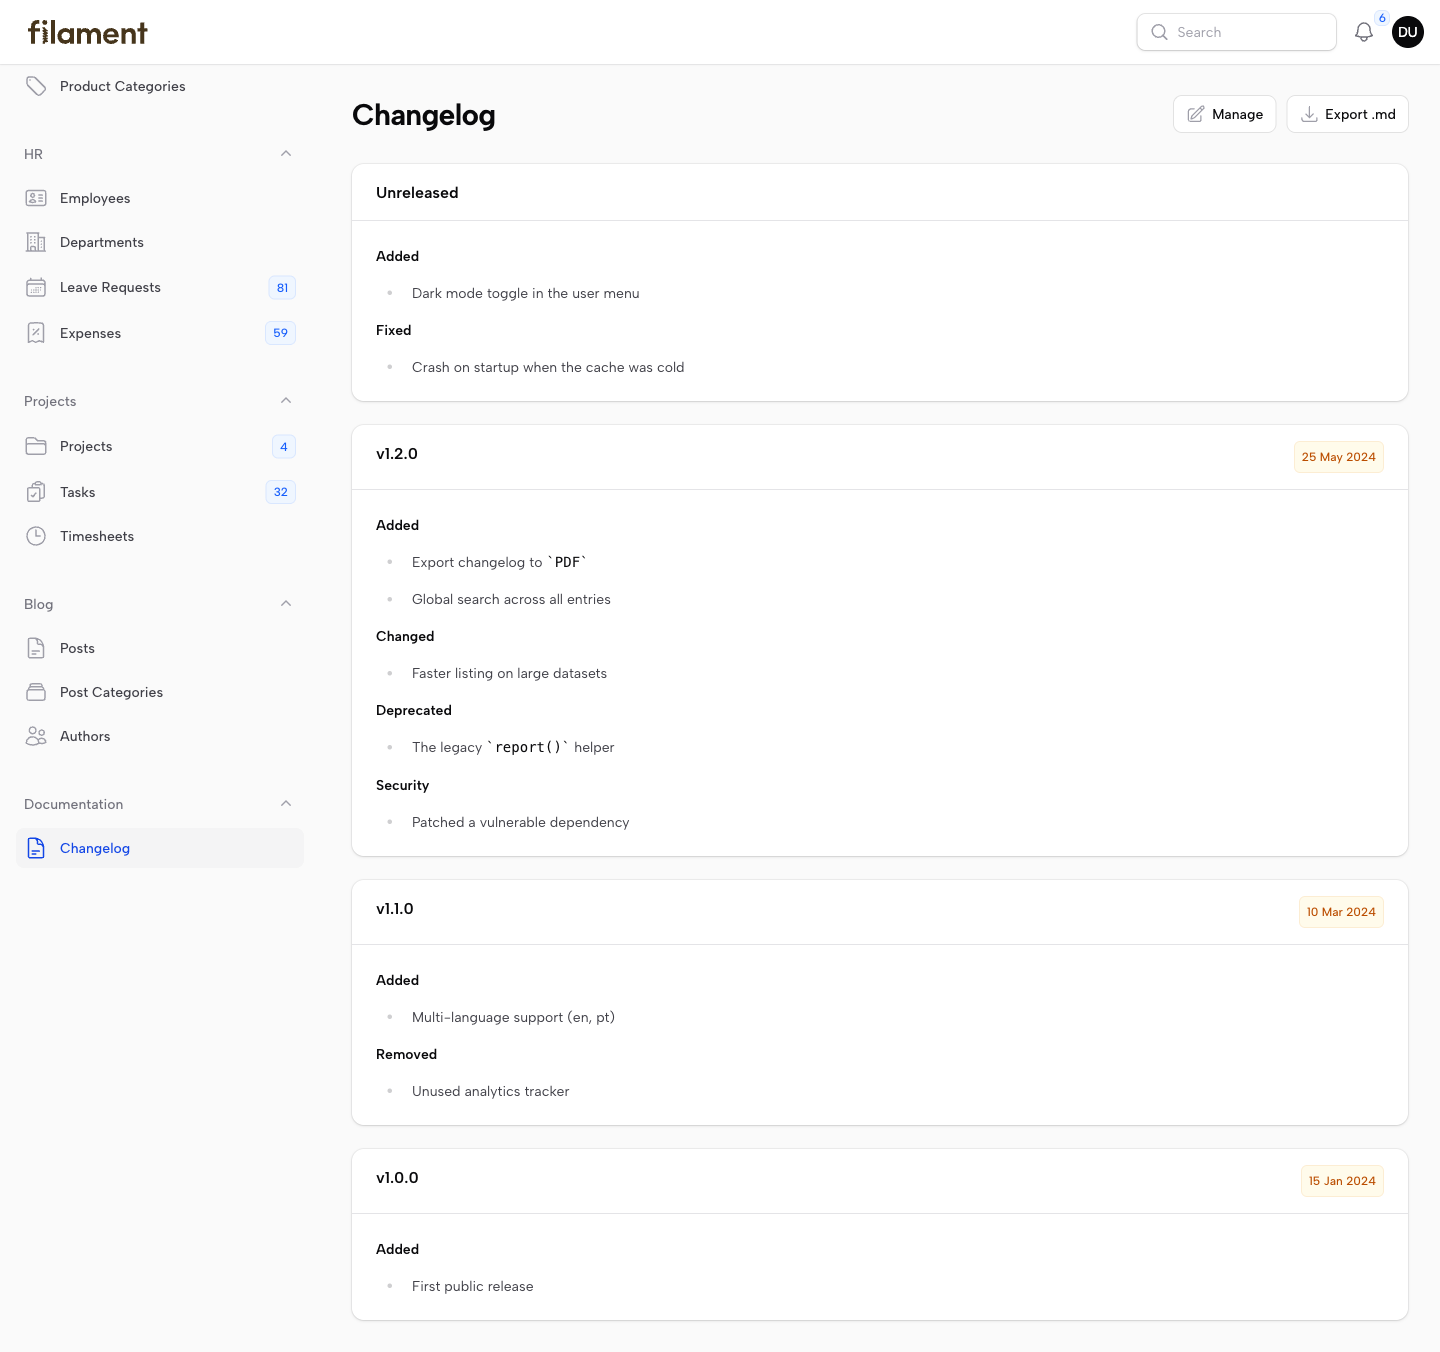
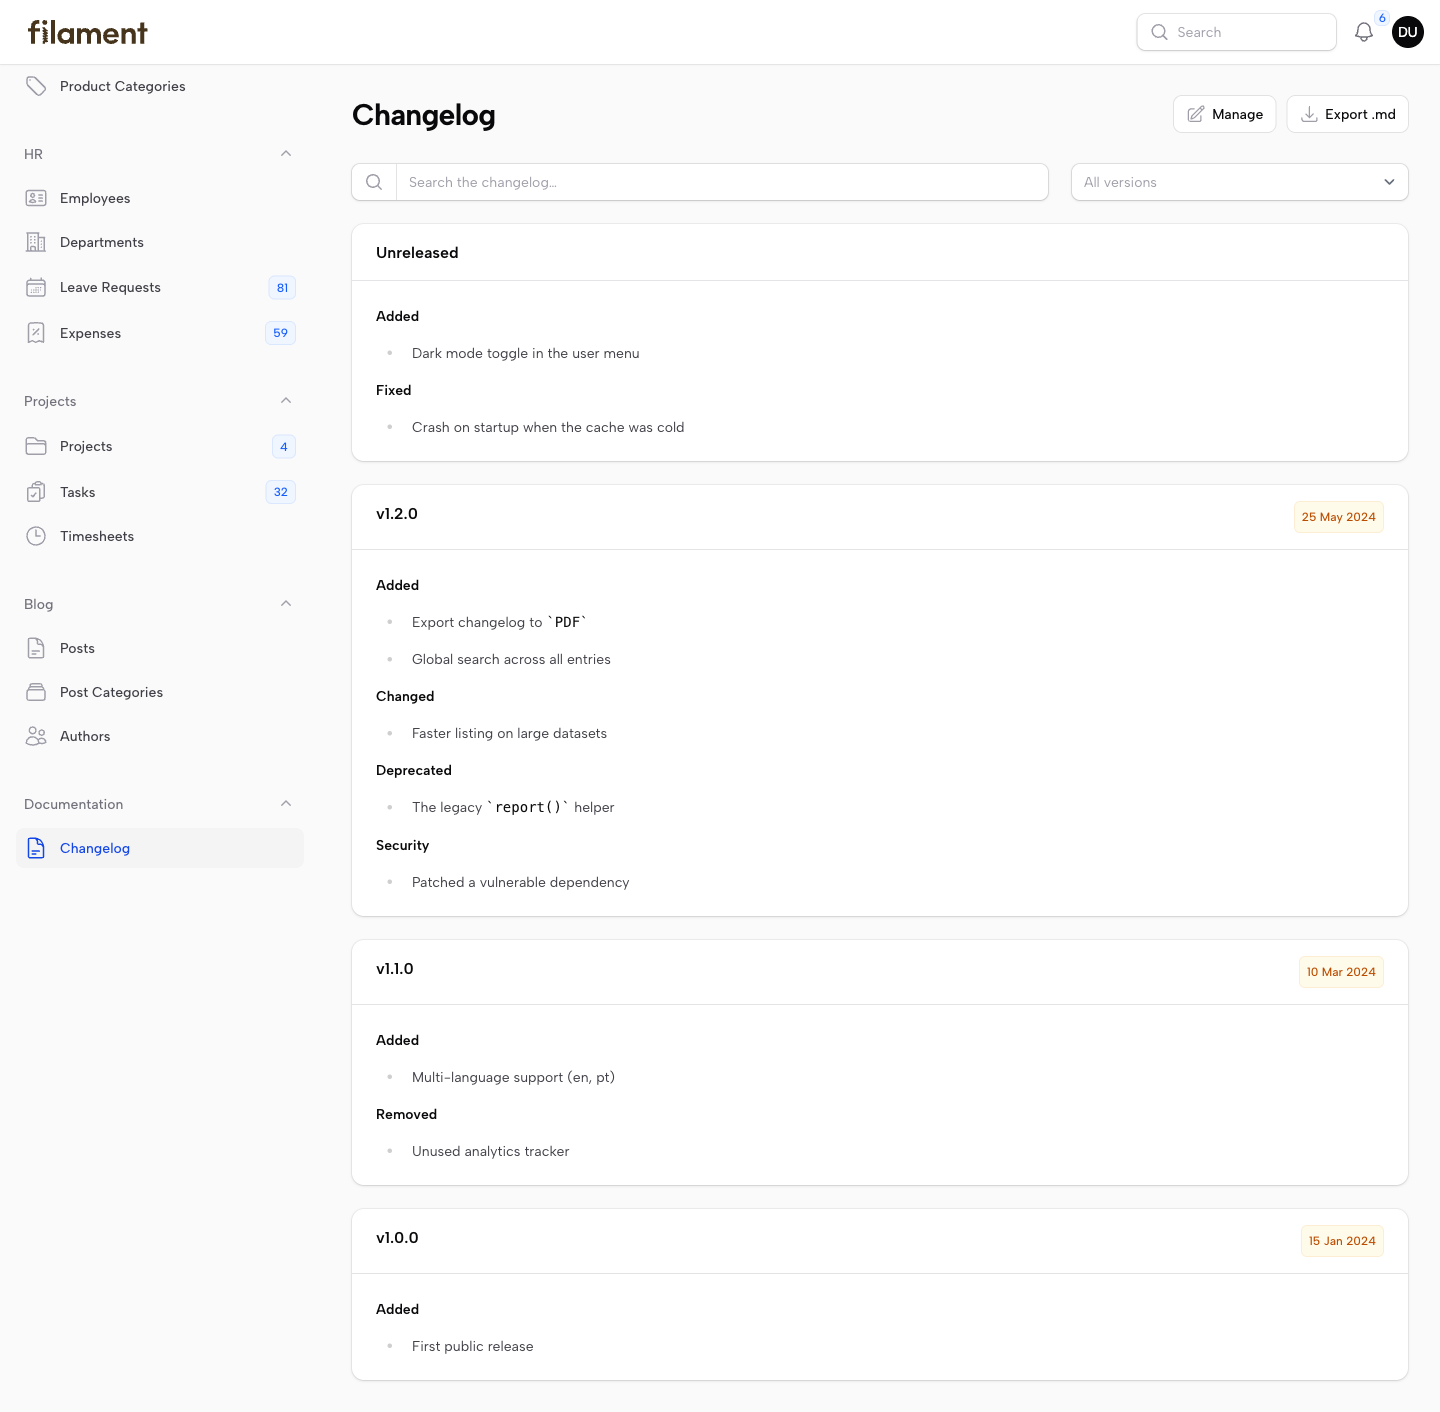
Add search, version filter and infinite scroll to the reader
The reader page now has a live search box, a searchable version filter and
infinite scroll (version cards load in batches). Built with the schema API,
no custom Blade. Also fix a 500 when filtering by version: VersionGrouper
now returns a plain collection so only() works instead of calling getKey()
on an Eloquent collection. Adds translations (en, pt_PT, pt_BR) and a
regression test.

diff --git a/src/Pages/ChangelogPage.php b/src/Pages/ChangelogPage.php
@@ -12,11 +12,15 @@ use Filament\Changelog\Support\ChangelogSource;
 use Filament\Changelog\Support\ChangelogWriter;
 use Filament\Changelog\Support\VersionGrouper;
 use Filament\Facades\Filament;
+use Filament\Forms\Components\Select;
+use Filament\Forms\Components\TextInput;
 use Filament\Infolists\Components\TextEntry;
 use Filament\Pages\Page;
 use Filament\Panel;
+use Filament\Schemas\Components\Grid;
 use Filament\Schemas\Components\Section;
 use Filament\Schemas\Components\Text;
+use Filament\Schemas\Components\Utilities\Get;
 use Filament\Schemas\Schema;
 use Filament\Support\Enums\FontWeight;
 use Filament\Support\Icons\Heroicon;
@@ -27,6 +31,31 @@ use UnitEnum;
 
 class ChangelogPage extends Page
 {
+    /**
+     * Number of version cards revealed per infinite-scroll step.
+     */
+    protected const PER_PAGE = 8;
+
+    /**
+     * Toolbar state (search term + selected version), bound via `statePath`.
+     *
+     * @var array<string, mixed>
+     */
+    public ?array $data = [];
+
+    /**
+     * How many version cards are currently visible (grows on scroll).
+     */
+    public int $limit = self::PER_PAGE;
+
+    public function mount(): void
+    {
+        $this->data = [
+            'search' => '',
+            'version' => null,
+        ];
+    }
+
     protected static function plugin(): ChangelogPlugin
     {
         try {
@@ -107,6 +136,22 @@ class ChangelogPage extends Page
         return config('changelog.navigation.page.slug', 'changelog');
     }
 
+    /**
+     * Reveal the next batch of version cards (called by the scroll sentinel).
+     */
+    public function loadMore(): void
+    {
+        $this->limit += static::PER_PAGE;
+    }
+
+    /**
+     * Reset paging whenever a filter changes so results start from the top.
+     */
+    public function resetLimit(): void
+    {
+        $this->limit = static::PER_PAGE;
+    }
+
     protected function getHeaderActions(): array
     {
         return [
@@ -143,25 +188,139 @@ class ChangelogPage extends Page
 
         if ($entries->isEmpty()) {
             return $schema->components([
-                Section::make()
-                    ->schema([
-                        Text::make(__('changelog::changelog.reader.empty'))
-                            ->color('gray'),
-                    ]),
+                Section::make()->schema([
+                    Text::make(__('changelog::changelog.reader.empty'))->color('gray'),
+                ]),
             ]);
         }
 
+        return $schema
+            ->statePath('data')
+            ->components([
+                $this->toolbar($entries),
+                Grid::make(1)
+                    ->key('changelog-list')
+                    ->schema(fn (Get $get): array => $this->list(
+                        (string) ($get('search') ?? ''),
+                        $get('version'),
+                    )),
+            ]);
+    }
+
+    /**
+     * Search box + version filter, both live so the list reacts instantly.
+     */
+    protected function toolbar(Collection $entries): Grid
+    {
+        return Grid::make(['default' => 1, 'sm' => 3])
+            ->schema([
+                TextInput::make('search')
+                    ->hiddenLabel()
+                    ->placeholder(__('changelog::changelog.reader.search_placeholder'))
+                    ->prefixIcon(Heroicon::MagnifyingGlass)
+                    ->live(debounce: 350)
+                    ->afterStateUpdated(fn () => $this->resetLimit())
+                    ->columnSpan(['default' => 1, 'sm' => 2]),
+
+                Select::make('version')
+                    ->hiddenLabel()
+                    ->placeholder(__('changelog::changelog.reader.all_versions'))
+                    ->options($this->versionOptions($entries))
+                    ->native(false)
+                    ->searchable()
+                    ->live()
+                    ->afterStateUpdated(fn () => $this->resetLimit())
+                    ->columnSpan(1),
+            ]);
+    }
+
+    /**
+     * @return array<string, string>
+     */
+    protected function versionOptions(Collection $entries): array
+    {
+        return (new VersionGrouper)->group($entries)
+            ->keys()
+            ->mapWithKeys(fn (string $version): array => [$version => $this->versionHeading($version)])
+            ->all();
+    }
+
+    /**
+     * Build the (filtered, paginated) list of version cards, appending an
+     * intersection sentinel when more cards remain to be revealed.
+     *
+     * @return array<int, \Filament\Schemas\Components\Component>
+     */
+    protected function list(string $search, ?string $version): array
+    {
         $grouper = new VersionGrouper;
 
-        $sections = $grouper->group($entries)
-            ->map(fn (Collection $group, string $version): Section => $this->versionSection($version, $group, $grouper))
+        $entries = $this->filter(ChangelogSource::entries(), $search);
+
+        $groups = $grouper->group($entries);
+
+        if ($version !== null && $version !== '') {
+            $groups = $groups->only([$version]);
+        }
+
+        if ($groups->isEmpty()) {
+            return [
+                Section::make()->schema([
+                    Text::make(__('changelog::changelog.reader.no_results'))->color('gray'),
+                ]),
+            ];
+        }
+
+        $total = $groups->count();
+
+        $sections = $groups
+            ->take($this->limit)
+            ->map(fn (Collection $group, string $v): Section => $this->versionSection($v, $group, $grouper, $search))
             ->values()
             ->all();
 
-        return $schema->components($sections);
+        if ($total > $this->limit) {
+            $sections[] = $this->loadMoreSentinel();
+        }
+
+        return $sections;
     }
 
-    protected function versionSection(string $version, Collection $group, VersionGrouper $grouper): Section
+    /**
+     * Keep only entries whose description (or version) matches the search term.
+     */
+    protected function filter(Collection $entries, string $search): Collection
+    {
+        $search = trim($search);
+
+        if ($search === '') {
+            return $entries;
+        }
+
+        $needle = mb_strtolower($search);
+
+        return $entries->filter(function (ChangelogEntry $entry) use ($needle): bool {
+            return str_contains(mb_strtolower((string) $entry->description), $needle)
+                || str_contains(mb_strtolower((string) $entry->version), $needle);
+        })->values();
+    }
+
+    protected function loadMoreSentinel(): Grid
+    {
+        return Grid::make(1)
+            ->key('changelog-load-more-'.$this->limit)
+            ->extraAttributes([
+                'x-intersect.margin.600px.once' => '$wire.loadMore()',
+                'class' => 'flex justify-center py-2',
+            ])
+            ->schema([
+                Text::make(__('changelog::changelog.reader.loading'))
+                    ->color('gray')
+                    ->size('sm'),
+            ]);
+    }
+
+    protected function versionSection(string $version, Collection $group, VersionGrouper $grouper, string $search = ''): Section
     {
         $body = $grouper->byType($group)
             ->map(function (array $bucket): string {
@@ -177,7 +336,7 @@ class ChangelogPage extends Page
             ->heading($this->versionHeading($version))
             ->afterHeader($this->dateBadge($group))
             ->schema([
-                TextEntry::make('body_'.md5($version))
+                TextEntry::make('body_'.md5($version.'|'.$search))
                     ->hiddenLabel()
                     ->state($body)
                     ->markdown(),

diff --git a/tests/Unit/VersionGrouperTest.php b/tests/Unit/VersionGrouperTest.php
@@ -3,6 +3,8 @@
 use Filament\Changelog\Enums\ChangeType;
 use Filament\Changelog\Models\ChangelogEntry;
 use Filament\Changelog\Support\VersionGrouper;
+use Illuminate\Database\Eloquent\Collection as EloquentCollection;
+use Illuminate\Support\Collection as SupportCollection;
 
 function makeEntry(array $attributes): ChangelogEntry
 {
@@ -44,4 +46,24 @@ it('omits type buckets with no entries', function () {
     $group = collect([makeEntry(['type' => ChangeType::Added])]);
 
     expect((new VersionGrouper)->byType($group))->toHaveCount(1);
+});
+
+it('returns a plain support collection so key methods work on eloquent input', function () {
+    // Grouping an Eloquent collection must not leak an Eloquent collection,
+    // whose only()/except() expect model keys and call getKey() on the groups.
+    $entries = new EloquentCollection([
+        makeEntry(['version' => '1.0.0', 'released_at' => '2024-01-15']),
+        makeEntry(['version' => '1.1.0', 'released_at' => '2024-03-10']),
+    ]);
+
+    $groups = (new VersionGrouper)->group($entries);
+
+    expect($groups)->toBeInstanceOf(SupportCollection::class)
+        ->and($groups)->not->toBeInstanceOf(EloquentCollection::class);
+
+    // The reader filters to a single version with only() — this used to throw.
+    $only = $groups->only(['1.1.0']);
+
+    expect($only->keys()->all())->toBe(['1.1.0'])
+        ->and($only->get('1.1.0'))->toHaveCount(1);
 });

diff --git a/src/Support/VersionGrouper.php b/src/Support/VersionGrouper.php
@@ -19,7 +19,10 @@ class VersionGrouper
      */
     public function group(Collection $entries): Collection
     {
-        return $entries
+        // Wrap in a base collection first: grouping an Eloquent collection would
+        // yield an Eloquent collection whose key-based methods (only/except)
+        // expect model keys and call getKey() on the groups.
+        return collect($entries->all())
             ->groupBy('version')
             ->sortBy(function (Collection $group, string $version): string {
                 if (strtolower($version) === 'unreleased') {

diff --git a/resources/lang/pt_BR/changelog.php b/resources/lang/pt_BR/changelog.php
@@ -56,6 +56,10 @@ return [
 
     'reader' => [
         'unreleased' => 'Não lançado',
-        'empty' => 'Ainda não há entradas no registro.',
+        'empty' => 'Ainda não há registros no changelog.',
+        'search_placeholder' => 'Pesquisar no changelog…',
+        'all_versions' => 'Todas as versões',
+        'no_results' => 'Nenhum registro corresponde à pesquisa.',
+        'loading' => 'Carregando mais…',
     ],
 ];

diff --git a/resources/lang/pt_PT/changelog.php b/resources/lang/pt_PT/changelog.php
@@ -56,6 +56,10 @@ return [
 
     'reader' => [
         'unreleased' => 'Por lançar',
-        'empty' => 'Ainda não há entradas no registo.',
+        'empty' => 'Ainda não há registos no changelog.',
+        'search_placeholder' => 'Pesquisar no changelog…',
+        'all_versions' => 'Todas as versões',
+        'no_results' => 'Nenhum registo corresponde à pesquisa.',
+        'loading' => 'A carregar mais…',
     ],
 ];

diff --git a/resources/lang/en/changelog.php b/resources/lang/en/changelog.php
@@ -57,5 +57,9 @@ return [
     'reader' => [
         'unreleased' => 'Unreleased',
         'empty' => 'No changelog entries yet.',
+        'search_placeholder' => 'Search the changelog…',
+        'all_versions' => 'All versions',
+        'no_results' => 'No entries match your search.',
+        'loading' => 'Loading more…',
     ],
 ];

diff --git a/CHANGELOG.md b/CHANGELOG.md
@@ -8,10 +8,21 @@ and this project adheres to [Semantic Versioning](https://semver.org/).
 ## [Unreleased]
 
 ### Added
+- Reader page **search** — a live search box that filters entries (and the
+  change-type sections within each version) as you type.
+- Reader page **version filter** — a searchable select to jump to a single
+  version.
+- Reader page **infinite scroll** — version cards load in batches as you scroll,
+  keeping large changelogs fast.
 - Read the changelog from a **remote URL** (e.g. a GitHub raw `CHANGELOG.md`)
   via `->fromUrl()` / `->file('https://…')`, with a configurable fetch cache.
 - Auto-convert GitHub `blob`/`raw` web URLs to `raw.githubusercontent.com`, so a
   normal repo file link works directly.
+
+### Fixed
+- Filtering the reader by version no longer throws when entries come from the
+  database (`VersionGrouper::group()` now returns a plain collection, so
+  `only()` works instead of calling `getKey()` on the groups).
 
 ### Changed
 - More tolerant parser: unrecognised `###` headings (e.g. GitHub's

diff --git a/README.md b/README.md
@@ -46,6 +46,8 @@ database, and get a clean, read-only changelog page out of the box.
 - 📖 **Reader page** — a polished, read-only changelog grouped by version with
   date badges and typed sections (built entirely with the Filament schema API,
   no custom Blade)
+- 🔎 **Search, version filter & infinite scroll** on the reader — find entries as
+  you type, jump to a single version, and load version cards as you scroll
 - 📝 Management resource to create/read/edit entries, grouped by version
 - 🏷 Typed changes (Added, Changed, Deprecated, Removed, Fixed, Security) with colored badges
 - ⬆ **Import** an existing `CHANGELOG.md` (upload, paste, or `changelog:import`)
